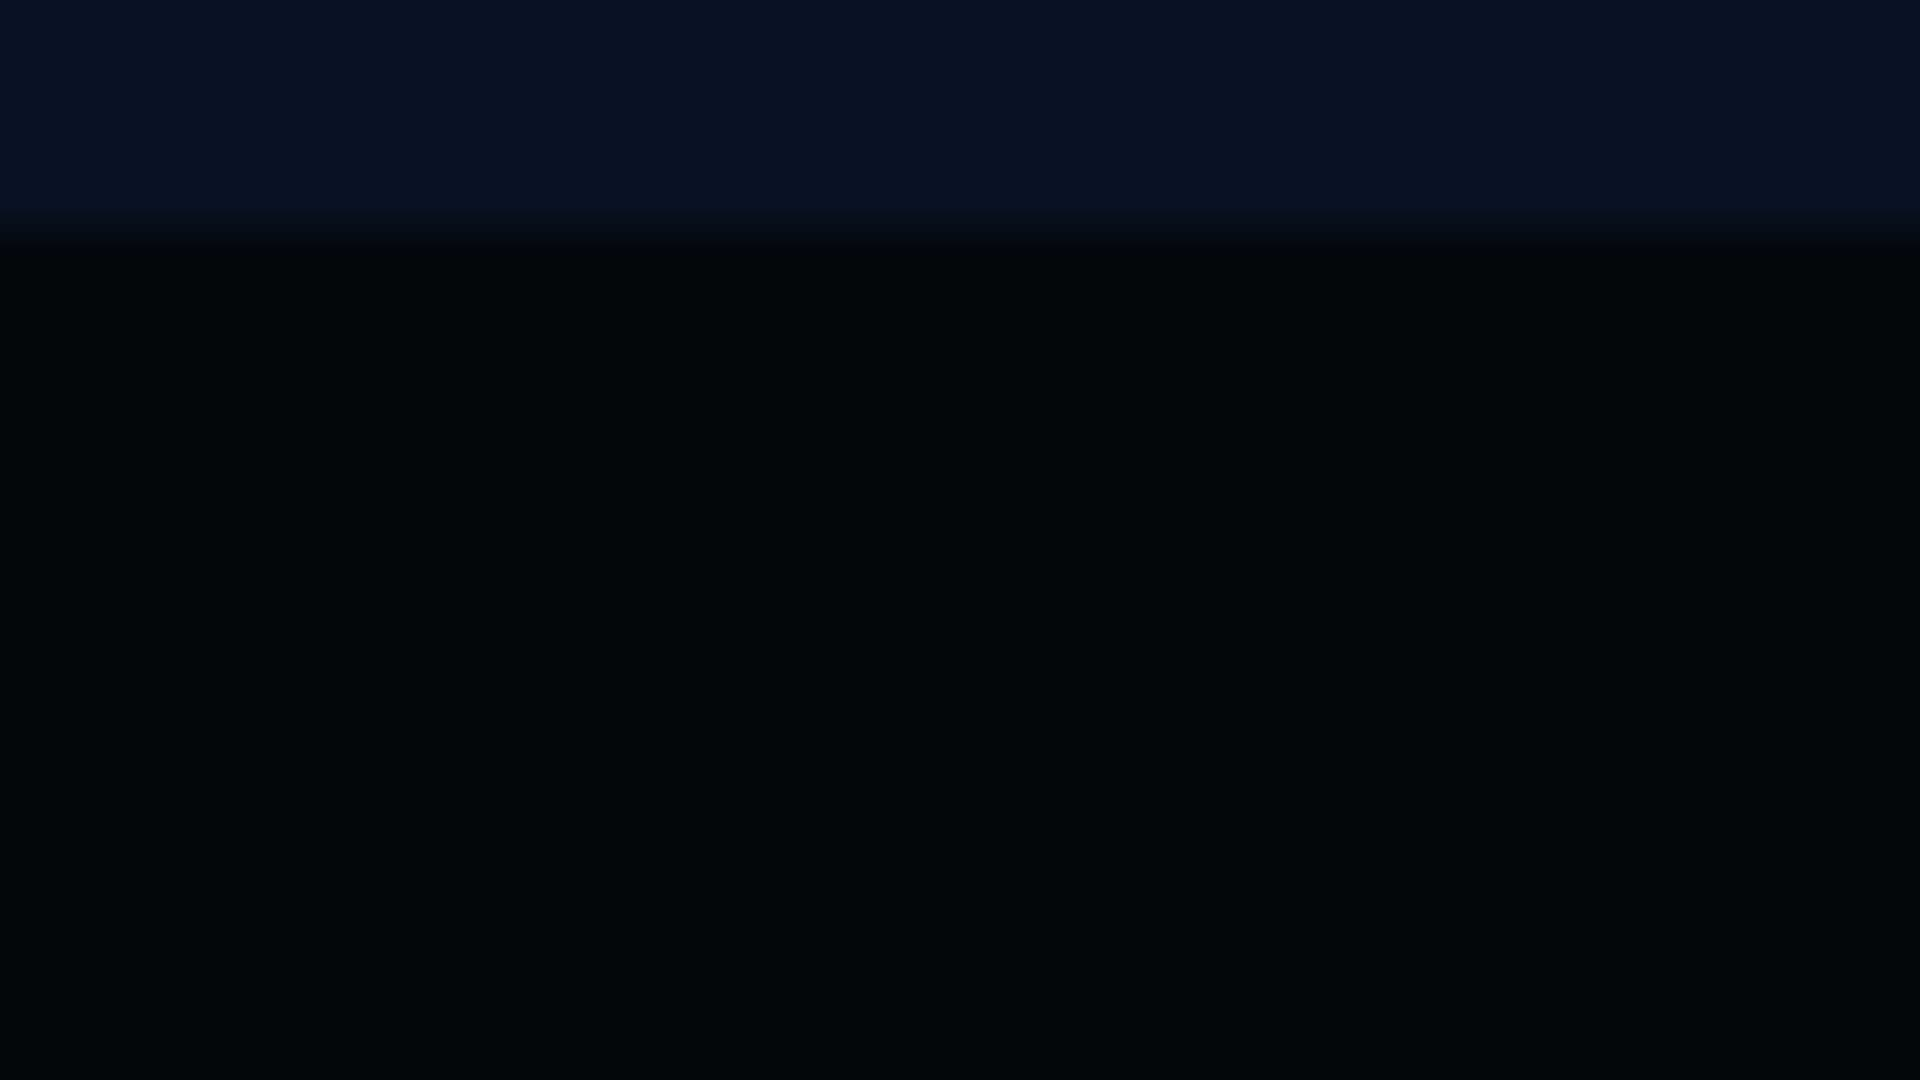
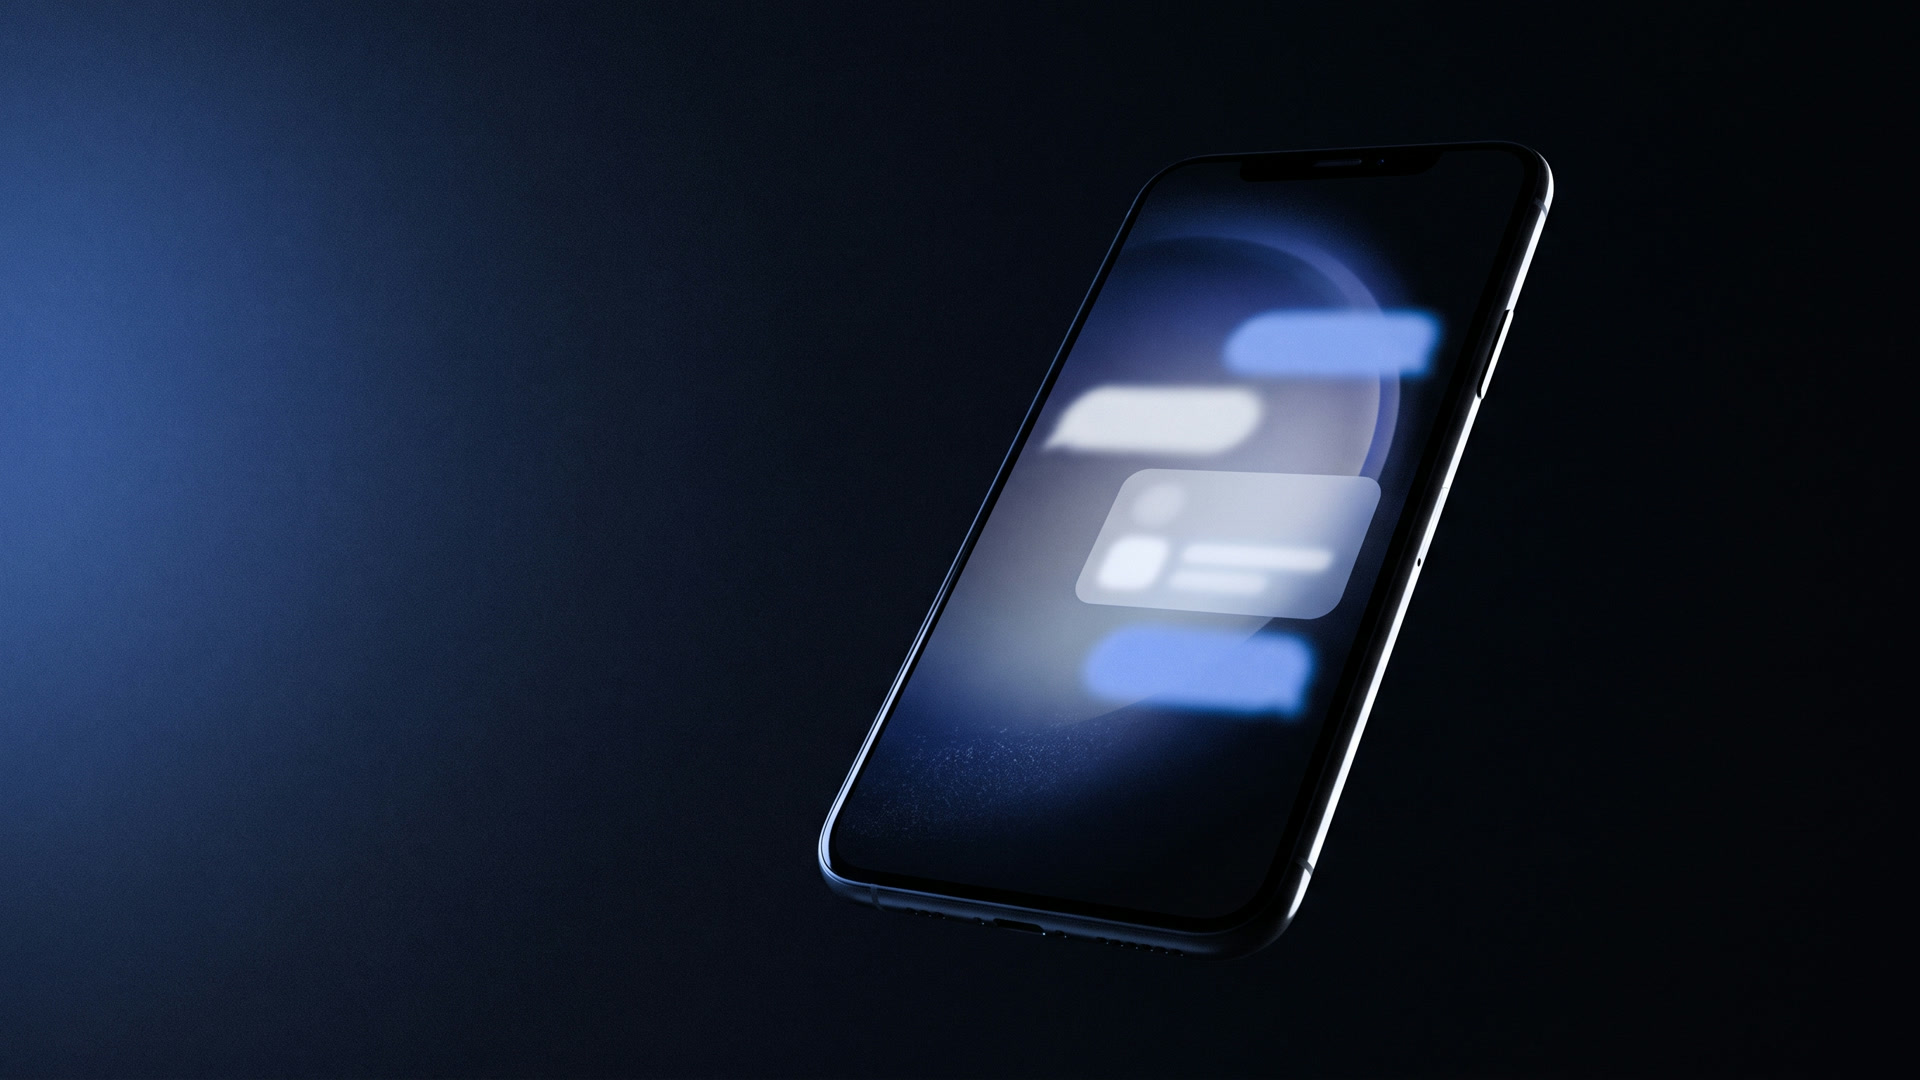
frontend(landing): 영상 없을 때 스틸 3장 스크롤 크로스페이드 폴백 + 생성 스틸 적용
- 힉스필드 무료 플랜에서는 영상 모델(Kling 3.0 Turbo / Seedance 2.0 / Seedance 2.0 Mini)이
  "Requires basic plan or higher"로 제출 거부 → 영상은 아직 없음(README에 상태·비용·트라이얼 조건 기록)
- Hero: useScrubVideo.failed 이면 reduced-motion 과 같은 스틸 경로로 전환, 스크롤에 맞춰 1.06→1 미세 확대
- 스틸 3장은 Nano Banana Pro 2K 생성물: 키캡 조립(a) / 빛의 스트림 통로(b) / 완성 기기(c=hero-last)
- WelcomeLanding: dev 서버에서 ?reduce 로 감소 모션 화면 미리보기(import.meta.env.DEV 한정)

diff --git a/frontend/src/landing/Hero.tsx b/frontend/src/landing/Hero.tsx
@@ -30,21 +30,18 @@ export default function Hero({ container, sectionRef, reduce, onStart, onExplore
   const ctaPointer = useTransform(cta, (v) => (v > 0.5 ? 'auto' : 'none'));
   const y3 = useTransform(p, [0.75, 0.9], [24, 0]);
 
-  // reduced-motion: 영상 대신 3장의 스틸이 진행률에 따라 부드럽게 전환
+  // reduced-motion 또는 영상 로드 실패: 3장의 스틸(스트림 내부 / 코어 / 완성 기기)이 진행률에 따라 전환.
+  // 영상 실패 시에는 스크롤에 맞춰 아주 느리게 확대해 정지 화면처럼 보이지 않게 한다.
   const stillA = useTransform(p, [0, 0.3, 0.4], [1, 1, 0]);
   const stillB = useTransform(p, [0.3, 0.4, 0.65, 0.75], [0, 1, 1, 0]);
   const stillC = useTransform(p, [0.65, 0.75], [0, 1]);
+  const stillScale = useTransform(p, [0, 1], [1.06, 1]);
+  const showStills = reduce || failed;
 
   return (
     <section className="uc-hero" ref={sectionRef} id="top" aria-label="KAFKATALK 소개 영상">
       <div className="uc-hero-sticky">
-        {reduce ? (
-          <div className="uc-hero-stills" aria-hidden>
-            <motion.img src={MEDIA.hero.stills[0]} alt="" style={{ opacity: stillA }} />
-            <motion.img src={MEDIA.hero.stills[1]} alt="" style={{ opacity: stillB }} />
-            <motion.img src={MEDIA.hero.stills[2]} alt="" style={{ opacity: stillC }} />
-          </div>
-        ) : (
+        {reduce ? null : (
           <>
             <video
               ref={videoRef}
@@ -67,6 +64,13 @@ export default function Hero({ container, sectionRef, reduce, onStart, onExplore
               </div>
             )}
           </>
+        )}
+        {showStills && (
+          <motion.div className="uc-hero-stills" aria-hidden style={{ scale: reduce ? 1 : stillScale }}>
+            <motion.img src={MEDIA.hero.stills[0]} alt="" style={{ opacity: stillA }} />
+            <motion.img src={MEDIA.hero.stills[1]} alt="" style={{ opacity: stillB }} />
+            <motion.img src={MEDIA.hero.stills[2]} alt="" style={{ opacity: stillC }} />
+          </motion.div>
         )}
         <div className="uc-hero-shade" aria-hidden />
 

diff --git a/frontend/src/WelcomeLanding.tsx b/frontend/src/WelcomeLanding.tsx
@@ -13,7 +13,8 @@ import Footer from './landing/Footer';
 export default function WelcomeLanding({ onStart }: { onStart: () => void }) {
   const containerRef = useRef<HTMLDivElement>(null);
   const heroRef = useRef<HTMLElement>(null);
-  const reduce = !!useReducedMotion();
+  // dev 서버에서 ?reduce 로 감소 모션 대체 화면을 미리 볼 수 있다 (프로덕션 빌드에서는 제거됨)
+  const reduce = !!useReducedMotion() || (import.meta.env.DEV && new URLSearchParams(window.location.search).has('reduce'));
   const [solid, setSolid] = useState(false);
   const [active, setActive] = useState<string | null>(null);
 

diff --git a/frontend/src/styles.css b/frontend/src/styles.css
@@ -6586,6 +6586,7 @@ button.message-media { border: 0; padding: 0; cursor: pointer; font: inherit; }
   overflow: hidden;
   background: #04050a url('/media/landing/hero.jpg') center / cover no-repeat;
 }
+.uc-hero-stills { position: absolute; inset: 0; transform-origin: 50% 50%; will-change: transform; }
 .uc-hero-video, .uc-hero-stills img {
   position: absolute;
   inset: 0;

diff --git a/frontend/public/media/landing/README.md b/frontend/public/media/landing/README.md
@@ -2,6 +2,16 @@
 
 이 디렉터리의 파일은 `WelcomeLanding`이 그대로 참조한다 (`/media/landing/...`).
 
+## 현재 상태 (2026-09-23)
+
+- **영상 파일(`hero.mp4` 등)은 아직 없다.** 힉스필드 무료 플랜(잔액 46 크레딧)에서는 영상 모델이 전부 "Requires basic plan or higher"로 거부됨
+  (Kling 3.0 Turbo, Seedance 2.0, Seedance 2.0 Mini 모두 제출 단계에서 거부 — `get_cost`는 통과하므로 비용 조회로는 알 수 없음).
+- 대신 힉스필드 **Nano Banana Pro(2K)**로 만든 스틸 3장을 사용 중: `hero.jpg`/`hero-still-a.jpg`(키캡 조립), `hero-still-b.jpg`(스트림 통로), `hero-last.jpg`/`hero-still-c.jpg`(완성 기기).
+  영상이 없으면 `Hero`가 자동으로 이 3장을 스크롤 크로스페이드로 보여준다(`useScrubVideo.failed`). reduced-motion 대체 화면과 같은 경로.
+- 영상을 넣으려면: 아래 프롬프트로 생성 → `scripts/landing-media.sh qa <src> <dir>` 로 6항목 검수 → `scripts/landing-media.sh hero <src>` 로 재인코딩·poster·스틸 자동 생성.
+  힉스필드 MCP에는 "3일 무료 Plus 트라이얼(100 크레딧 ≈ Seedance 2.0 4편, 카드 필요, 3일 후 $49 자동 결제)"이 있다 — 결제 행위이므로 사용자가 직접 결정.
+  비용 참고: Seedance 2.0 720p 10s=45 / 6s=27, 1080p 8s=72; Kling 3.0 Turbo 1080p 10s=20; `bytedance_video_upscale` 1080p=0.1.
+
 | 파일 | 용도 | 규격 |
 |---|---|---|
 | `hero.mp4` / `hero.webm` | HERO FILM — 스크롤 스크러빙 | 1920×1080, 24fps+, 8~10s, 무음, H.264 `-g 6` + `+faststart` / VP9 `-g 6` |

diff --git a/docs/logs/2026-09-23.md b/docs/logs/2026-09-23.md
@@ -4,3 +4,4 @@
 
 - 00:57 시네마틱 랜딩: 스크롤 스크러빙 영상 히어로 + 섹션 7개 스캐폴드, useScrubVideo 훅, LandingScene 제거 (영상은 placeholder, 힉스필드 생성 대기)
 - 01:10 랜딩: 시작 프레임 이미지 생성(nano_banana_pro)→poster 적용, 영상 로드 실패 처리, 미디어 QA/재인코딩 스크립트(scripts/landing-media.sh)
+- 01:19 랜딩: 힉스필드 무료 플랜 영상 모델 게이트 확인(Kling/Seedance/Mini 전부 basic 이상), 스틸 3장(시작·스트림·기기) 생성해 영상 실패 시 스크롤 크로스페이드 폴백 구현, ?reduce dev 미리보기
